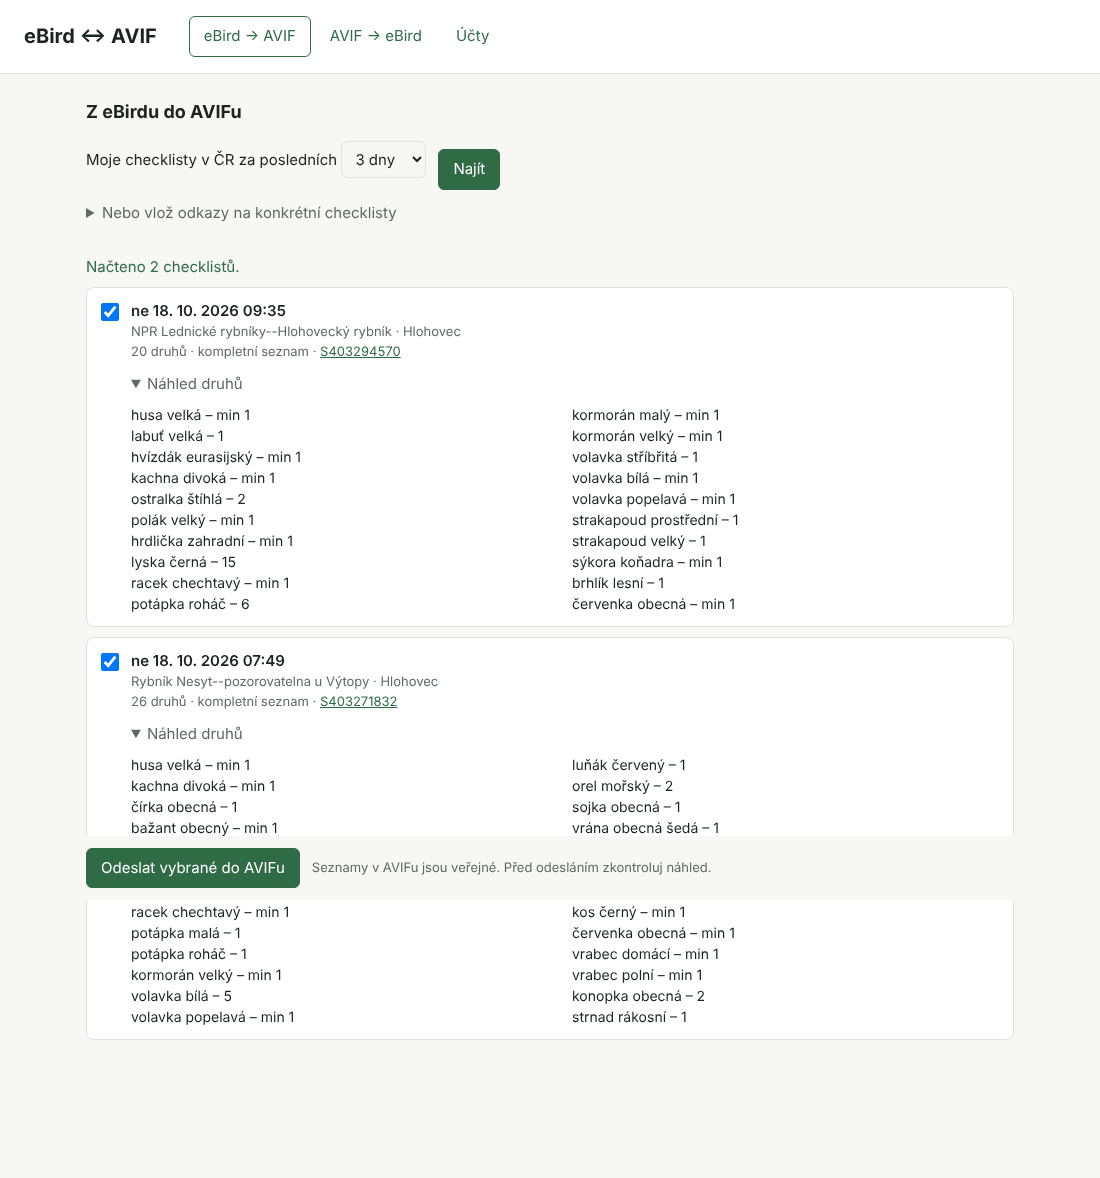
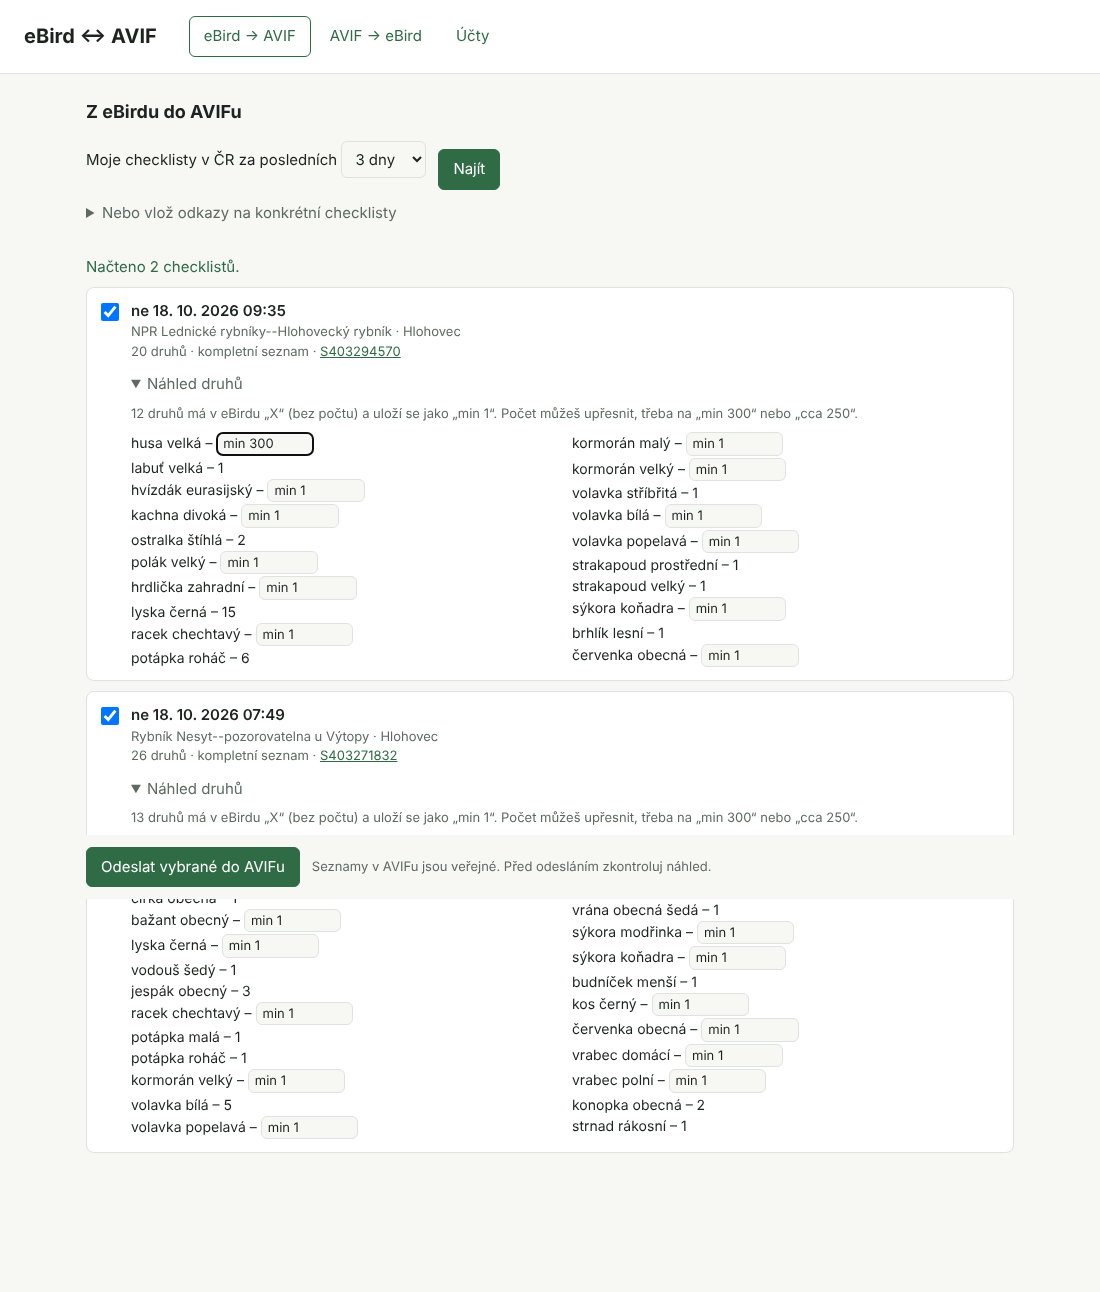
Upřesnění počtu u druhů s „X“ v náhledu před odesláním
U druhů bez počtu v eBirdu je v náhledu políčko předvyplněné „min 1“,
které jde přepsat (např. min 300, cca 250, 120-150). Zápis se kontroluje
podle formátů, které přijímá AVIF; s chybným počtem se seznam neodešle.

diff --git a/src/app.js b/src/app.js
@@ -1,6 +1,6 @@
 import { createEbird } from './lib/ebird.js';
 import { login, createAvif, reverseGeocode } from './lib/avif.js';
-import { checklistToAvif, avifListToEbirdRows, rowsToCsv, parseChecklistIds, checklistUrl } from './lib/convert.js';
+import { checklistToAvif, avifListToEbirdRows, rowsToCsv, parseChecklistIds, checklistUrl, isValidAvifCount } from './lib/convert.js';
 import { getSettings, saveSettings, getTransferred, markTransferred, unmarkTransferred, getExported, markExported } from './lib/storage.js';
 
 const $ = (sel) => document.querySelector(sel);
@@ -138,9 +138,20 @@ async function renderChecklists() {
     else if (c.unmatched.length) badge = `<span class="badge warn">${c.unmatched.length} druhů nespárováno</span>`;
     const when = p.checklist ? `${fmtDate(p.checklist.obsDt)}${c?.payload.timeStart ? ' ' + c.payload.timeStart : ''}` : subId;
     const where = p.loc ? `${esc(p.loc.name)}${p.unit ? ' · ' + esc(p.unit.municipalityPart.name) : ''}` : '';
+    const editable = new Set(c?.presentOnly || []);
     const species = c
-      ? c.payload.items.map((it) => `<li>${esc(taxonomy.avif[it.taxonId]?.[0])}${it.count ? ' – ' + esc(it.count) : ''}</li>`).join('') +
+      ? c.payload.items.map((it, i) => {
+          const name = esc(taxonomy.avif[it.taxonId]?.[0]);
+          if (editable.has(i)) {
+            return `<li class="editable">${name} – <input class="count" data-i="${i}" value="${esc(it.count || '')}" ${done ? 'disabled' : ''}
+              aria-label="Počet: ${name}" title="Např. min 300, cca 250, 120-150"></li>`;
+          }
+          return `<li>${name}${it.count ? ' – ' + esc(it.count) : ''}</li>`;
+        }).join('') +
         c.unmatched.map((code) => `<li class="unmatched">${esc(code)} – nemá protějšek v AVIFu, doplň ručně</li>`).join('')
+      : '';
+    const countHint = editable.size && !done
+      ? `<p class="hint">${editable.size} druhů má v eBirdu „X“ (bez počtu) a uloží se jako „min 1“. Počet můžeš upřesnit, třeba na „min 300“ nebo „cca 250“.</p>`
       : '';
     return `<div class="card" data-sub="${esc(subId)}">
       <header>
@@ -153,12 +164,25 @@ async function renderChecklists() {
         </div>
         ${badge}
       </header>
-      ${species ? `<details><summary>Náhled druhů</summary><ul class="species">${species}</ul></details>` : ''}
+      ${species ? `<details ${countHint ? 'open' : ''}><summary>Náhled druhů</summary>${countHint}<ul class="species">${species}</ul></details>` : ''}
     </div>`;
   });
   $('#checklists').innerHTML = html.join('');
   $('#send-bar').hidden = ![...prepared.values()].some((p) => p.conversion && !p.error);
 }
+
+// Upřesnění počtu u druhů, které měly v eBirdu „X“
+$('#checklists').addEventListener('input', (ev) => {
+  if (!ev.target.classList.contains('count')) return;
+  const input = ev.target;
+  const item = prepared.get(input.closest('.card').dataset.sub).conversion.payload.items[Number(input.dataset.i)];
+  const value = input.value.trim();
+  const valid = value === '' || isValidAvifCount(value);
+  input.classList.toggle('invalid', !valid);
+  if (!valid) return;
+  if (value) item.count = value;
+  else delete item.count;
+});
 
 $('#checklists').addEventListener('click', async (ev) => {
   if (!ev.target.classList.contains('resend')) return;
@@ -195,6 +219,8 @@ $('#send').addEventListener('click', async () => {
   const status = $('#to-avif-status');
   const selected = [...document.querySelectorAll('#checklists .card')].filter((c) => c.querySelector('input:checked')).map((c) => c.dataset.sub);
   if (!selected.length) return setStatus(status, 'Nic není vybráno.', 'warn');
+  const invalid = selected.filter((subId) => document.querySelector(`.card[data-sub="${subId}"] input.count.invalid`));
+  if (invalid.length) return setStatus(status, `Oprav počty označené červeně (${invalid.join(', ')}). AVIF bere např. 35, min 300, cca 250, 120-150.`, 'error');
   if (!confirm(`Odeslat ${selected.length} seznam(ů) do AVIFu? Budou veřejně viditelné podle nastavení tvého účtu.`)) return;
   const btn = $('#send');
   btn.disabled = true;

diff --git a/src/lib/convert.js b/src/lib/convert.js
@@ -23,6 +23,10 @@ function addMinutes(hhmm, minutes) {
 // eBird „howManyStr“ → AVIF count. „X“ (přítomen, bez počtu) → „min 1“.
 export const PRESENT_COUNT = 'min 1';
 
+// Formáty počtu, které AVIF přijímá (schema_count v API v3): „35“, „cca 40“, „min 12“, „max 11“, „>5“, „<10“, „12-25“
+const AVIF_COUNT = /^(?:\d{1,7}|cca ?\d{1,7}|(?:min\.?|>) ?\d{1,7}|(?:max\.?|<) ?\d{1,7}|\d{1,7} ?[-–] ?\d{1,7})$/;
+export const isValidAvifCount = (s) => AVIF_COUNT.test(String(s).trim());
+
 export function convertCount(howManyStr) {
   const s = String(howManyStr ?? '').trim();
   if (/^\d{1,7}$/.test(s)) return s;
@@ -35,7 +39,7 @@ export function convertCount(howManyStr) {
  * @param loc lokalita {name, latitude, longitude}
  * @param municipalityPartId z reversegeocode
  * @param taxonomy data/taxonomy.json
- * @returns {{payload, unmatched: string[], skippedCount: number}}
+ * @returns {{payload, presentOnly: number[], unmatched: string[], skippedCount: number}}
  */
 export function checklistToAvif(checklist, loc, municipalityPartId, taxonomy, version = '') {
   const [date, time] = checklist.obsDt.split(' ');
@@ -44,6 +48,7 @@ export function checklistToAvif(checklist, loc, municipalityPartId, taxonomy, ve
   const timeEnd = hasTime && checklist.durationHrs ? addMinutes(time, checklist.durationHrs * 60) : null;
 
   const items = [];
+  const presentOnly = []; // indexy položek, které měly v eBirdu „X“ – v náhledu jde počet upřesnit
   const unmatched = [];
   let skippedCount = 0;
   for (const o of checklist.obs || []) {
@@ -56,6 +61,7 @@ export function checklistToAvif(checklist, loc, municipalityPartId, taxonomy, ve
     const item = { taxonId };
     const count = convertCount(o.howManyStr);
     if (count) item.count = count;
+    if (count === PRESENT_COUNT) presentOnly.push(items.length);
     items.push(item);
   }
 
@@ -77,7 +83,7 @@ export function checklistToAvif(checklist, loc, municipalityPartId, taxonomy, ve
     source: SOURCE,
     sourceVersion: version,
   };
-  return { payload, unmatched, skippedCount };
+  return { payload, presentOnly, unmatched, skippedCount };
 }
 
 // ---------- AVIF → eBird (CSV ve formátu eBird Record Format) ----------

diff --git a/test/convert.test.js b/test/convert.test.js
@@ -1,7 +1,7 @@
 import { test } from 'node:test';
 import assert from 'node:assert/strict';
 import { readFileSync } from 'node:fs';
-import { checklistToAvif, avifListToEbirdRows, rowsToCsv, parseChecklistIds, convertCount } from '../src/lib/convert.js';
+import { checklistToAvif, avifListToEbirdRows, rowsToCsv, parseChecklistIds, convertCount, isValidAvifCount } from '../src/lib/convert.js';
 
 const json = (p) => JSON.parse(readFileSync(new URL(p, import.meta.url), 'utf8'));
 const taxonomy = json('../data/taxonomy.json');
@@ -11,6 +11,11 @@ const avifList = json('./fixtures/avif-list.json');
 
 test('ID checklistů z textu i odkazů', () => {
   assert.deepEqual(parseChecklistIds('https://ebird.org/checklist/S403294570, S1234567 S403294570'), ['S403294570', 'S1234567']);
+});
+
+test('formáty počtu pro AVIF', () => {
+  for (const ok of ['35', 'min 300', 'min. 12', 'cca 40', 'max 11', '>5', '<10', '12-25', '12 – 25']) assert.ok(isValidAvifCount(ok), ok);
+  for (const bad of ['', 'X', 'hodně', 'min', '300+', 'cca']) assert.ok(!isValidAvifCount(bad), bad);
 });
 
 test('počty', () => {
@@ -37,6 +42,10 @@ test('eBird checklist → AVIF seznam', () => {
   assert.equal(swan.count, '1');
   assert.equal(payload.items.find((i) => i.taxonId === taxonomy.e2a.gragoo).count, 'min 1');
   assert.match(payload.note, /S403294570/);
+  // položky s „X“ jsou označené k upřesnění v náhledu
+  const { presentOnly } = checklistToAvif(checklist, loc, 6046370, taxonomy);
+  assert.equal(presentOnly.length, checklist.obs.filter((o) => o.howManyStr === 'X').length);
+  for (const i of presentOnly) assert.equal(payload.items[i].count, 'min 1');
 });
 
 test('nespárovaný druh udělá seznam neúplným', () => {

diff --git a/src/app.css b/src/app.css
@@ -46,5 +46,8 @@ summary { cursor: pointer; color: var(--muted); margin-bottom: 8px; }
 .species { columns: 2 220px; margin: 0; padding: 0; list-style: none; font-size: 14px; }
 .species li { break-inside: avoid; }
 .species .unmatched { color: var(--warn); }
+.species input.count { display: inline-block; width: 7.5em; margin: 1px 0; padding: 1px 6px; font-size: 13px; }
+.species input.count.invalid { border-color: var(--error); outline-color: var(--error); }
+.card details > .hint { margin: 0 0 8px; }
 .actions { position: sticky; bottom: 0; display: flex; flex-wrap: wrap; gap: 12px; align-items: center; padding: 12px 0; background: var(--bg); }
 @media (max-width: 600px) { header { padding: 12px 16px; } .card details { padding-left: 14px; } }

diff --git a/README.md b/README.md
@@ -75,6 +75,7 @@ Heslo se nikam neukládá. Rozšíření si drží jen přihlašovací token, po
 2. Vyber období (3 až 30 dní zpátky) a klikni na **Najít**. Rozšíření projde checklisty z Česka a vybere ty tvoje.
    - Konkrétní checklist načteš i přes **Nebo vlož odkazy na konkrétní checklisty**. Vlož odkaz typu `https://ebird.org/checklist/S123456789`, jde jich vložit víc najednou.
 3. U každého checklistu uvidíš datum, lokalitu, obec, počet druhů a jestli půjde o kompletní, nebo částečný seznam. Po rozkliknutí **Náhled druhů** uvidíš česká jména a počty, přesně jak se uloží do AVIFu.
+   - Druhy, které máš v eBirdu jako „X“ (bez počtu), se uloží jako „min 1“. V náhledu u nich je políčko, kde počet můžeš upřesnit, třeba na `min 300`, `cca 250` nebo `120-150`. Nepovolený zápis se označí červeně a seznam se neodešle, dokud ho neopravíš.
 4. Zaškrtni checklisty, které chceš přenést. Ty, které už v AVIFu jsou, mají štítek **V AVIFu** a zaškrtnout nejdou.
 5. Klikni na **Odeslat vybrané do AVIFu** a potvrď.
 
@@ -114,7 +115,7 @@ eBird neumožňuje aplikacím zapisovat data přímo. Rozšíření proto připr
 | stacionární protokol | režim „bod“, jinak „oblast“ |
 | lokalita | souřadnice a název lokality, obec se určí podle souřadnic |
 | ušlá vzdálenost, počet pozorovatelů | ušlá vzdálenost, počet pozorovatelů |
-| počet | počet; „X“ (přítomen, bez počtu) se uloží jako „min 1“ |
+| počet | počet; „X“ (přítomen, bez počtu) se uloží jako „min 1“, v náhledu jde upřesnit |
 | — | poznámka „Převedeno z eBirdu“ s odkazem na checklist |
 
 Nepřenáší se: komentáře k druhům a k checklistu, fotky a zvukové nahrávky, věk a pohlaví, hnízdní kódy. eBird je aplikacím nezpřístupňuje. Doplnit je můžeš v AVIFu ručně.
